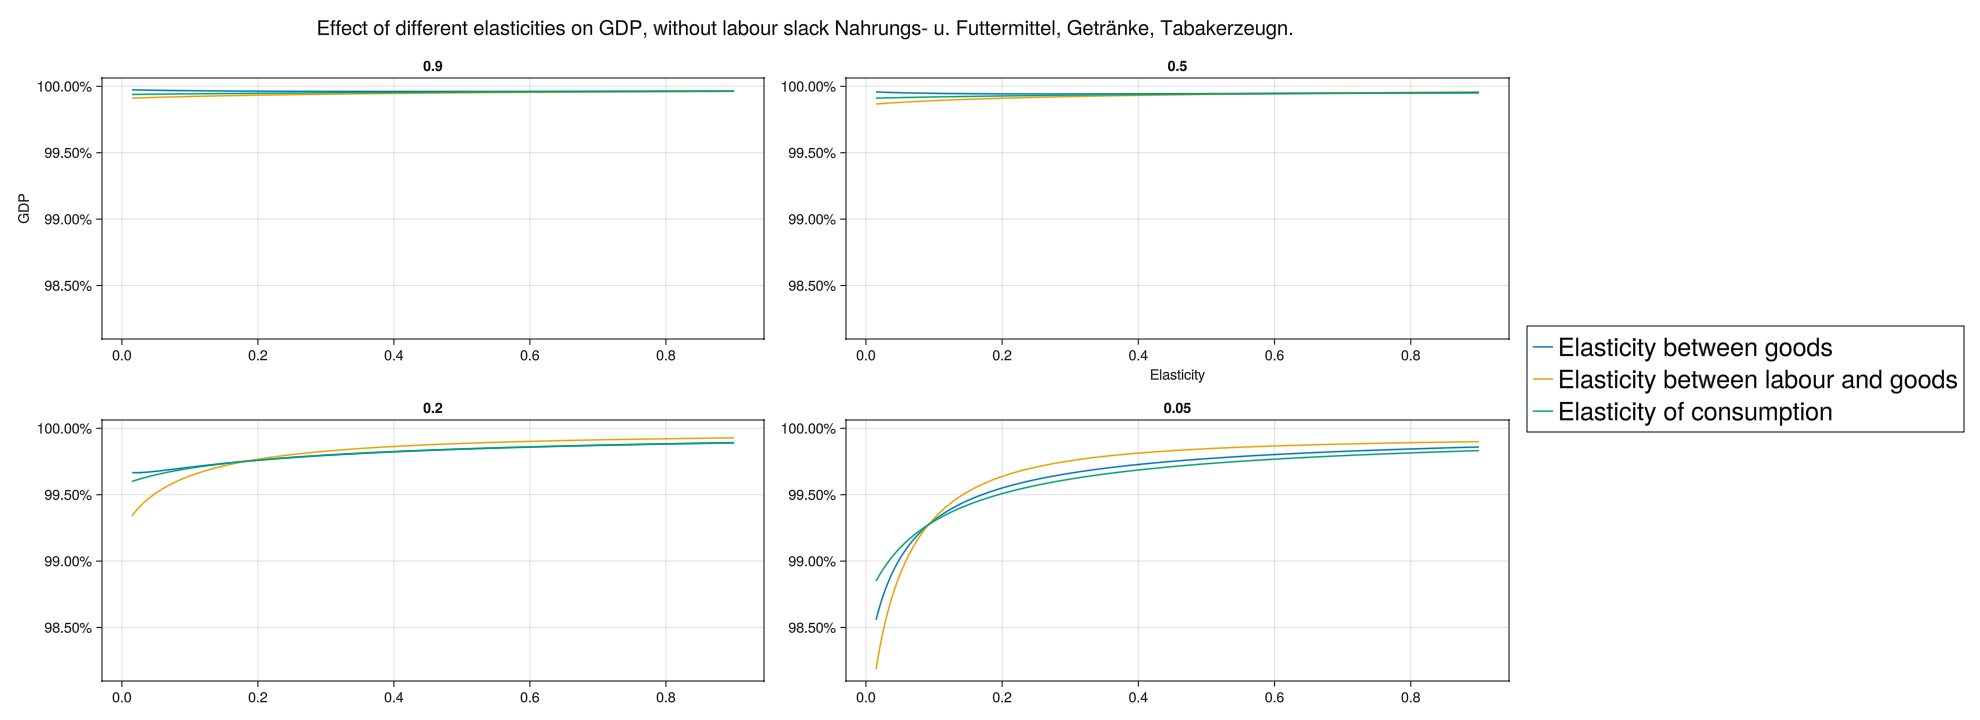
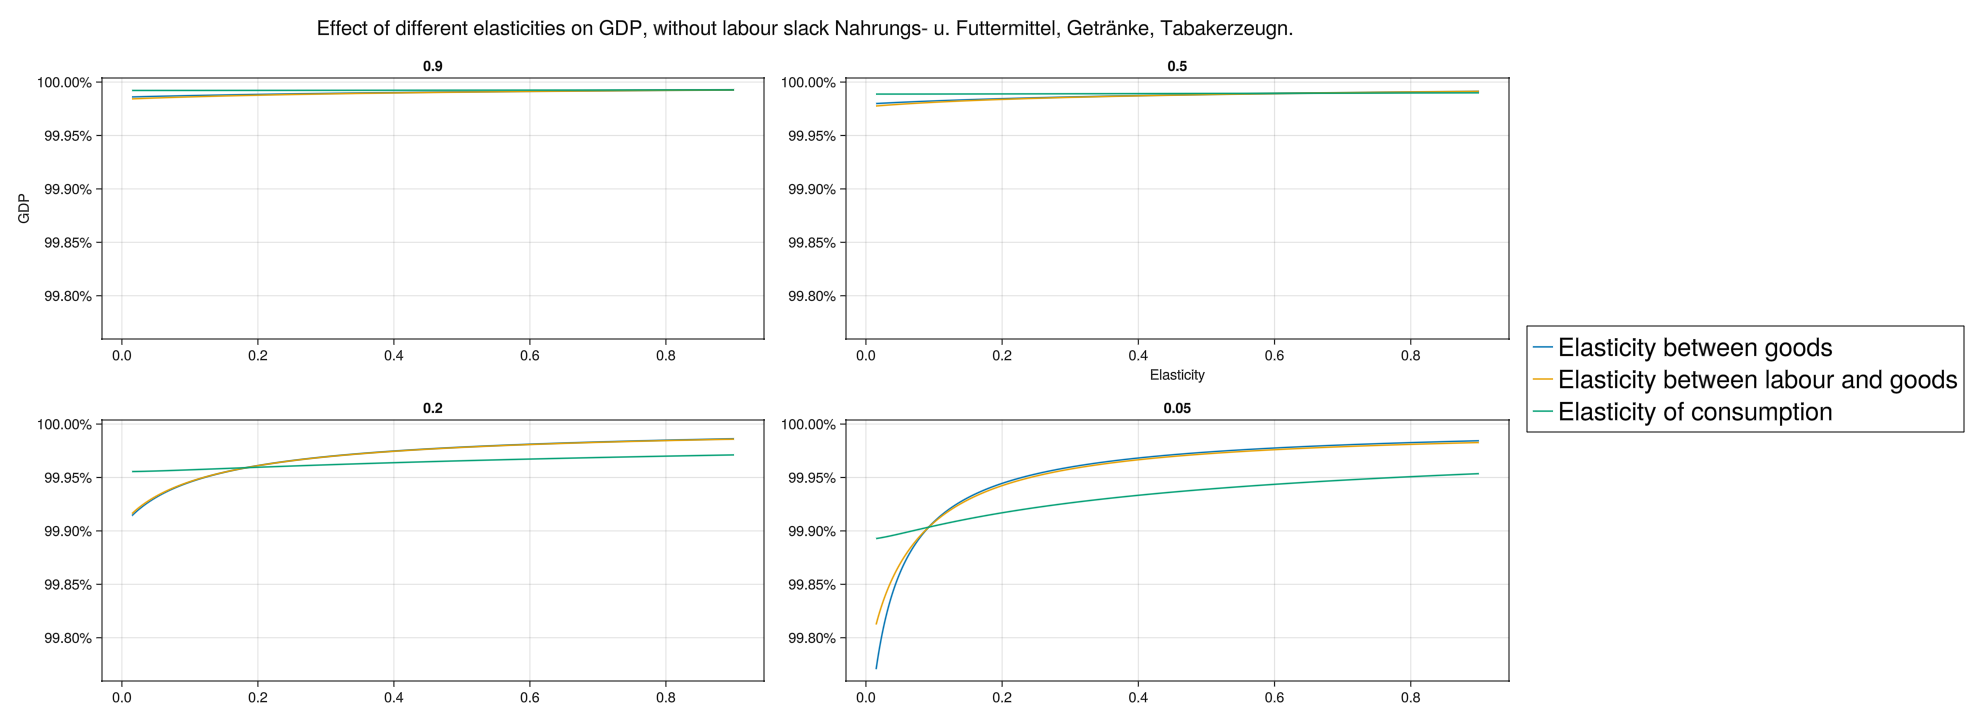
some plots

diff --git a/Replication Files/GDP Simulatin -- 88 Sector/GDP_Simulation_88sectorKLEMS.m b/Replication Files/GDP Simulatin -- 88 Sector/GDP_Simulation_88sectorKLEMS.m
@@ -123,6 +123,7 @@ parfor k = 1:trials
 
             if exitfl == 1 || exitfl == 2% solver no error (fmincon)
                 GDP(k) = (Soln(1:N).*(A.^((epsilon-1)/epsilon)).*(alpha.^(1/epsilon)).*(Soln(N+1:2*N).^(1/epsilon)).*(1./L).^(1/epsilon))'*L;
+                GDP(k) = ((A.^((epsilon-1)/epsilon)).*(alpha.^(1/epsilon)).*(Soln(N+1:2*N).^(1/epsilon)).*(1./L).^(1/epsilon))'*L;
                 lambda_simul(:,k) = Soln(1:N).*Soln(1+N:end)/GDP(k);
             end
             %parfor_progress;
